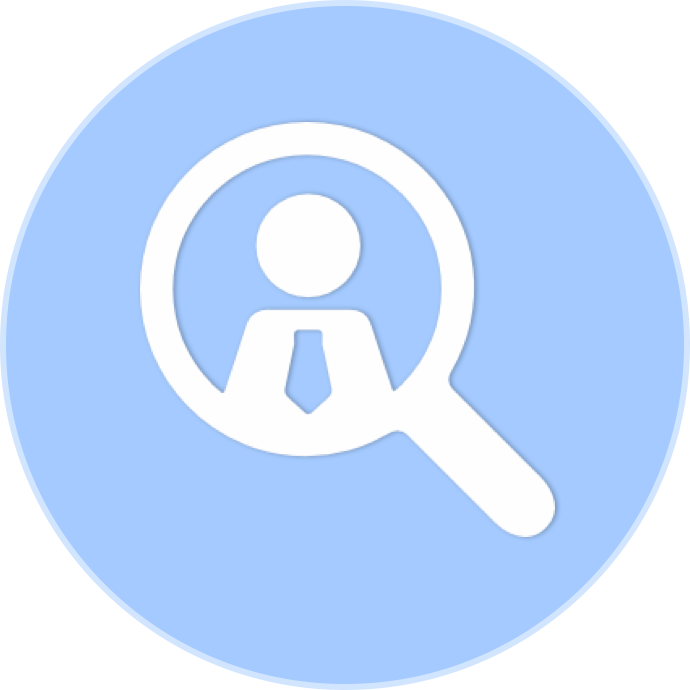
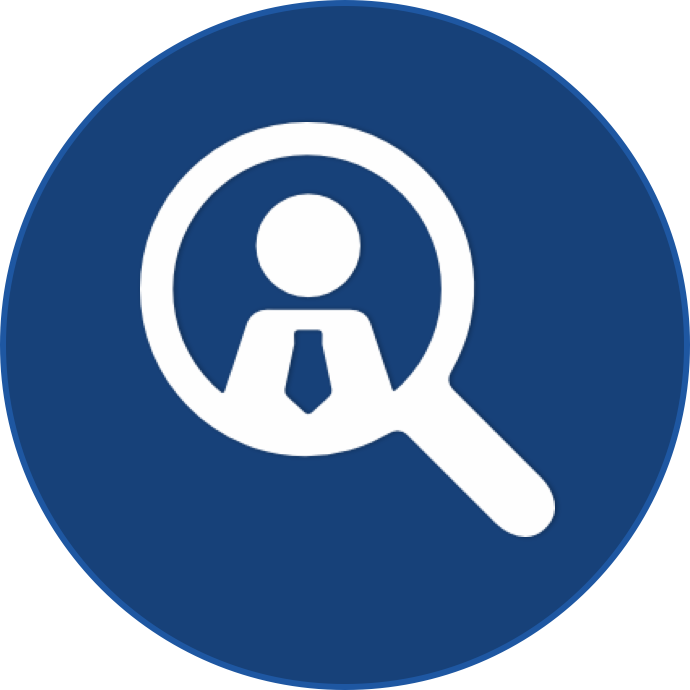
Color updates

diff --git a/public/index.css b/public/index.css
@@ -110,7 +110,6 @@
 
 #rekryIcons .block img {
   width: 200px;
-  margin: 50px;
   margin-bottom: 0px;
   pointer-events: none;
   -webkit-user-select: none;  /* Chrome all / Safari all */
@@ -130,6 +129,7 @@
   margin: 0px;
   margin-top: 4px;
   min-height: 1em;
+  margin-bottom: 35px;
 }
 
 @media screen and (max-width: 24cm) {
@@ -155,10 +155,10 @@
   }
   #rekryIcons .block {
     width: 110px;
+    margin: 15px;
   }
   #rekryIcons .block img {
     width: 90px;
-    margin: 15px;
   }
   #rekryIcons h3 {
     font-size: 18px;
@@ -169,5 +169,6 @@
   #rekryIcons h5 {
     margin-top: 4px;
     min-height: 1em;
+    margin-bottom: 25px;
   }
 }

diff --git a/public/app.css b/public/app.css
@@ -12,7 +12,7 @@ body {
 }
 
 #linkbar {
-  background-color: rgba(48, 68, 91, 0.2);
+  background-color: rgba(26, 66, 119, 0.2);
   text-align: right;
   padding-right: 40px;
   padding-top: 20px;
